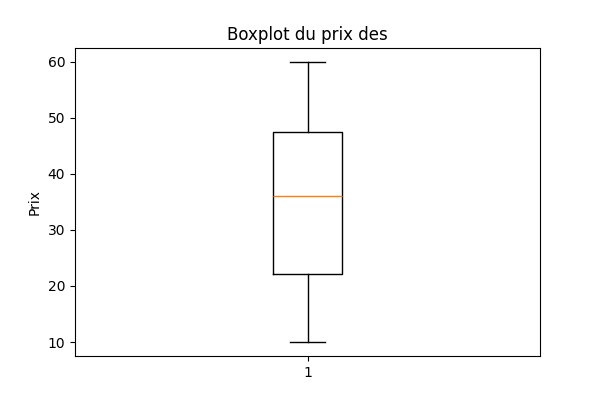
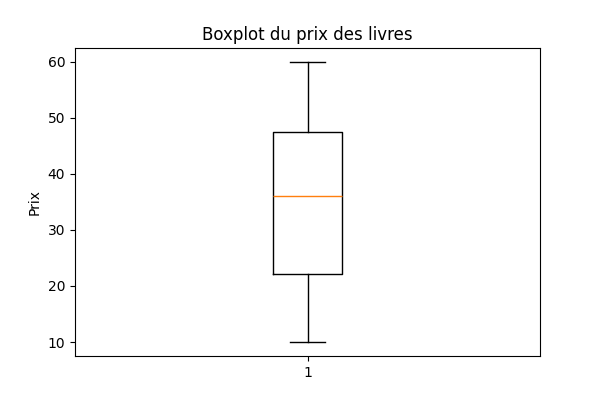
Refactor scraper and improve stats plotting functionality.
Updated `scrap_all` to include a maximum products limit, improved iteration logic, and reduced scraping delay for efficiency. Enhanced the `plot_price_boxplot` function to dynamically include product titles in plot titles. Updated and extended webcam dataset for enriched test cases.

Changed region(s): [[0.33, 0.06, 0.69, 0.12]]

diff --git a/scraper/scraper_custom.py b/scraper/scraper_custom.py
@@ -12,9 +12,9 @@ from selenium.webdriver.support import expected_conditions as EC
 from scraper.webcam import Webcam
 
 query = "webcam"
-url = f"https://www.google.fr/shopping"
+url = f"https://www.google.com/shopping"
 
-def scrap_all() -> list[Webcam]:
+def scrap_all(max: int = 300) -> list[Webcam]:
     webcams = []
 
     # Configuration de selenium
@@ -45,9 +45,9 @@ def scrap_all() -> list[Webcam]:
         next = True
 
         iter = 0
-        while next and iter < 50:
+        while next and iter < 50 and len(webcams) < max:
             iter += 1
-            time.sleep(1.5)
+            time.sleep(0.75)
             # Parsing de la page de recherche
             soup = BeautifulSoup(driver.page_source, "html.parser")
             products = soup.find_all("div", class_="P8xhZc")
@@ -65,10 +65,14 @@ def scrap_all() -> list[Webcam]:
 
             try :
                 next_element = driver.find_element(By.PARTIAL_LINK_TEXT, "Suivant")
-                next = next_element is not None
-                next_element.click()
             except NoSuchElementException:
-                next = False
+
+                try:
+                    next_element = driver.find_elements(By.CLASS_NAME, "lYtaR")[1]
+                except NoSuchElementException:
+                    break
+
+            next_element.click()
 
     finally:
         driver.quit()
@@ -94,5 +98,7 @@ if __name__ == "__main__":
         else:
             success = True
 
-    for webcam in webcams:
-        print(webcam)
+    #for webcam in webcams:
+    #    print(webcam)
+
+    print(f"Nombre de produits scrapés : {len(webcams)}")

diff --git a/analysis/stats.py b/analysis/stats.py
@@ -45,7 +45,7 @@ def plot_price_histogram(df: DataFrame, out: str) -> None:
 def plot_price_boxplot(df: DataFrame, out: str, product_title: str) -> None:
     plt.figure(figsize=(6, 4))
     plt.boxplot(df['price'])
-    plt.title('Boxplot du prix des')
+    plt.title(f'Boxplot du prix des {product_title}')
     plt.ylabel('Prix')
     plt.savefig(out)
     plt.close()
